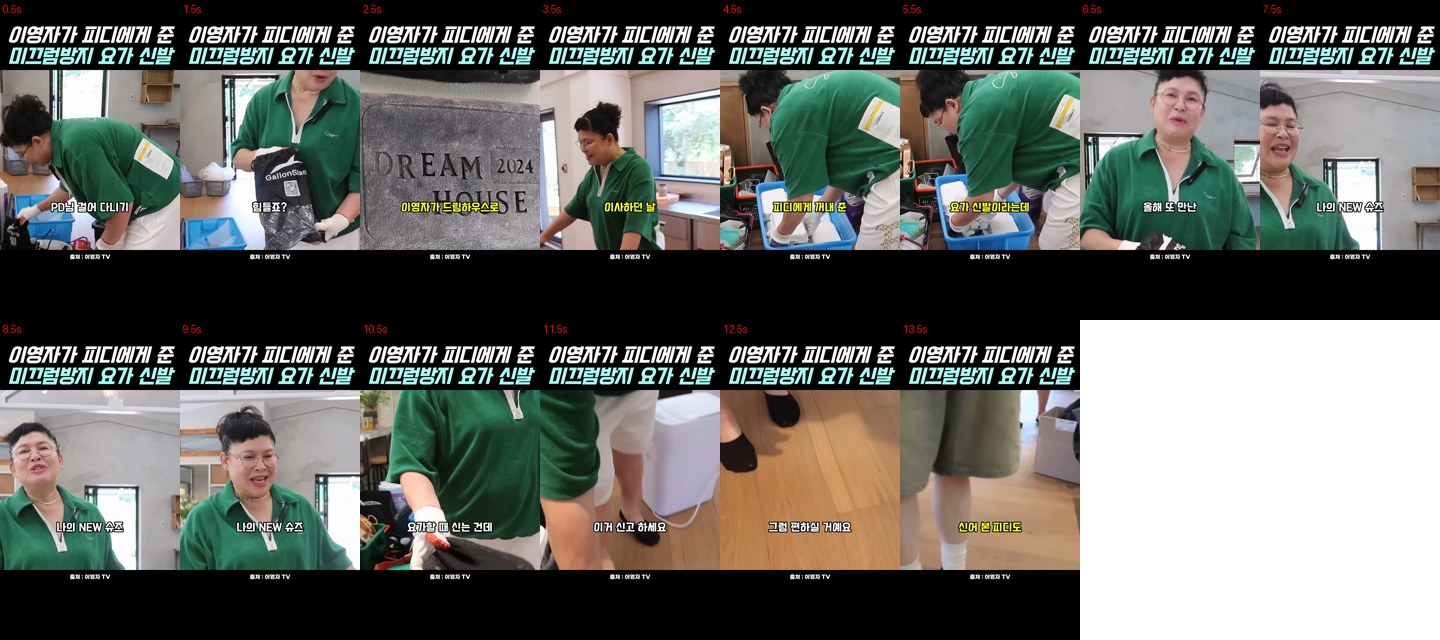
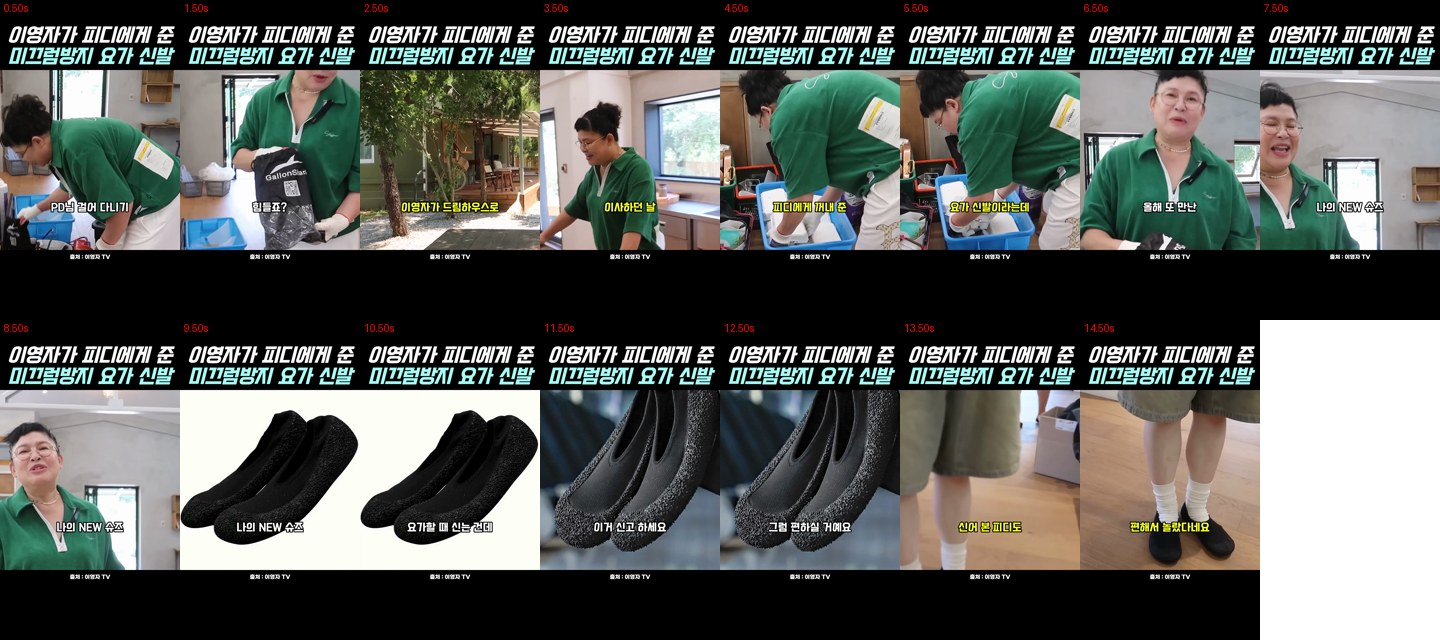
얜샷템 이영자 실내화 수리판 render2: 원음 O2 소리 그대로·화면만 본인 3.40초(50.7%)→같은 제품 상품 사진 B롤 2컷(제품만·손/글자 크롭 밖)·표지 돌 HOUSE(자막 겹침)→드림하우스 마당 26.66~27.72·O2 소리 시작초 프레임 차(11.10 딸깍 제거)·TTS 재호출 0 — 컷 중앙 계획 1.65/compare 1.634(만템 1.40 +16.7%)·check_seams 0·B표 전부 ○·바탕화면 MD5 a6ce8ae4 (관제 097)
Claude-Session: https://claude.ai/code/session_01XyPA8AgSD2J8UjfhcqxXRx

diff --git a/channel/yanshottem/이영자_실내화/_build_json.py b/channel/yanshottem/이영자_실내화/_build_json.py
@@ -104,55 +104,86 @@ S = {
 }
 (D / "대본.json").write_text(json.dumps(S, ensure_ascii=False, indent=1), encoding="utf-8")
 
-# 재료 — 컷 6개(B4 컷 중앙 때문에 N1 을 자막 조각대로 3컷: 표지·주방·짐 정리)(원음 구간은 원본 시각 그대로 → 입 모양 맞음, 같은 테이크는 앞으로만)
+# 재료 — 컷 8개(10-17 수리: B4 새 기준 만템 1.40 ±30% ≤1.82). 원음 O2 는 소리를 안 끊고 화면만 이영자 본인 3.40초(≥50%) → 같은 제품 B롤 2컷(제품만, 손·얼굴 없음).
+#   표지(돌 'DREAM HOUSE')는 글자 y400~710 이 자막 자리(창 y749~823)와 어느 크롭으로도 겹쳐(원본 편집 자막 y≈890 때문에 아래로 못 내림) → 같은 영상 드림하우스 바깥(마당·데크) 26.66~27.72 로 바꿈.
+#   같은 테이크 안 크롭 바꾸기 0(점프 줌 금지) · B16 같은 장면 A-B-A 0 · B13 같은 소스 ±3초 재사용 0.
 bt = {b["block"]: b["t"] for b in blocks}
 n1a, n1b = bt["N1"]
-n1m = round(n1a + NCAPS["N1"][1][1], 3)   # '이사하던 날' 자막 조각 시작에서 컷
 n1s = round(n1a + NCAPS["N1"][2][1], 3)   # '짐 정리하다' 자막 조각 시작에서 컷(TTS 실측)
 o2a, o2b = bt["O2"]
+O2_SELF = 3.40                              # 원음 O2 본인 화면(6.70 의 50.7%) — 119.62~123.02 정면 말·신발 주머니
+o2m = round(o2a + O2_SELF, 3)
+o2n = round((o2m + o2b) / 2, 3)
+G_END = 27.72                               # 마당 샷 크로스페이드 시작(프레임 차 실측: 26.64 까지 들어옴·27.72 부터 나감)
+n1g = round(bt["O1"][1] + (G_END - 26.66), 3)
+fa = lambda t: int(t * 30 + 0.5 + 1e-9)    # narr_video.frame_at 과 같은 반올림 — 원음 O2 를 컷 3개에 이어 깔 때 소리 시작초는 '실제 컷 프레임' 차로(1판 11.10 경계 16.7ms 건너뜀 → 딸깍 0.41)
+o2ss = lambda t: round(119.62 + (fa(t) - fa(o2a)) / 30, 4)
+YJ = (SRC, URL, "이영자 TV 유튜브 2024.06.30", "1920x1080")
+BR = {"i": ("br_i_P-LZ6mhX0.mp4", "https://www.youtube.com/watch?v=i_P-LZ6mhX0", "내맘니맘리뷰 유튜브(쿠팡 상품 사진 모음)", "1920x1080"),
+      "l": ("br_lJbKVjunSr8.mp4", "https://www.youtube.com/watch?v=lJbKVjunSr8", "모두의 리뷰 유튜브(쿠팡 상품 사진 모음)", "1920x1080"),
+      "t": ("br_T8Maxl8-uP0.mp4", "https://www.youtube.com/watch?v=T8Maxl8-uP0", "똑똑한 구매리스트 유튜브(쿠팡 상품 사진 모음)", "1920x1080")}
+# (줄, 시작, 끝, 소스, ss, 크롭, 소리(None|원음 시작초), 화면, 왜)
 cuts = [
-    ("O1", 0.0, bt["O1"][1], 117.82, [700, 0, 820, 820], True,
+    ("O1", 0.0, bt["O1"][1], YJ, 117.82, [700, 0, 820, 820], 117.82,
      "짐 가방 위로 몸을 숙여 검은 신발 주머니를 꺼냄(이영자 본인, 흰 반바지·초록 셔츠)", "원음 'PD님 걸어 다니기 힘들죠?' 117.82~119.42 — 원본 편집 자막(y≈940) 밖. 117.80 원본 컷 뒤"),
-    ("N1", bt["O1"][1], n1m, 50.10, [560, 0, 880, 880], False,
-     "돌 표지 'DREAM 2024 HOUSE'(새 집 벽)", "'이영자가 드림하우스로' — f1 제목의 드림하우스 실물. 원본 샷 49.58~52.04 안. 편집 자막 '결국 이뤄낸 2024 드림하우스'(글자 윗끝 y≈890) 밖 — 크롭 y0~880, 글자 DREAM 2024 HOUSE 가로 540~1460 안"),
-    ("N1", n1m, n1s, 86.44, [450, 0, 820, 820], False,
+    ("N1", bt["O1"][1], n1g, YJ, 26.66, [60, 60, 960, 960], None,
+     "드림하우스 바깥 — 나무 사이 초록 집·나무 데크·자갈 마당(사람 없음)", "'이영자가 드림하우스로' — f1 같은 영상 26.66~27.72(앞뒤 크로스페이드 밖). 원본 파란 테두리(가장자리 ~55px) 밖 크롭. 편집 자막 '3도 4촌 오늘부터 1일'은 26.6 전에 끝남"),
+    ("N1", n1g, n1s, YJ, round(86.44 - (bt["O1"][1] + 1.17 - n1g), 3), [450, 0, 820, 820], None,
      "새 집 주방 조리대 앞에 선 이영자(창밖 나무)", "'이사하던 날' — f1 이사 날 화면. 자막 '[볼수록 그저 감탄]'(y≈950) 밖. 원본 샷 84.50~88.42 안"),
-    ("N1", n1s, o2a, 88.50, [640, 0, 760, 760], False,
+    ("N1", n1s, o2a, YJ, 88.50, [640, 0, 760, 760], None,
      "짐 상자(파란 통) 위로 숙여 짐을 꺼내는 이영자", "'짐 정리하다 피디에게 꺼내 준 요가 신발이라는데' — f2 '드디어 정리 시작!' 자막(왼쪽 아래 y≥760) 밖. 92.04 원본 컷 전"),
-    ("O2", o2a, o2b, 119.62, [450, 0, 820, 820], True,
-     "신발 주머니 들고 정면 보며 말하는 이영자 → 신발 꺼내 듦 → 그 신발 신은 이영자 다리(흰 반바지) → 바닥(한 테이크, 카메라가 따라감)",
-     "원음 '올해 또 만난 나의 NEW 슈즈 … 요가할 때 신는 건데 이거 신고 하세요 / 그럼 편하실 거예요' 119.62~126.32 한 테이크 그대로(자르면 같은 테이크 크롭이 바뀌어 점프 줌 → 크롭 하나). 자막(y≥840) 밖. 126.4~127.4 남의 손이 신발 바닥을 드는 장면은 A13 때문에 안 씀"),
-    ("N2", o2b, dur, 128.42, [600, 85, 820, 820], False,
+    ("O2", o2a, o2m, YJ, 119.62, [450, 0, 820, 820], 119.62,
+     "신발 주머니 들고 정면 보며 말하는 이영자 → 주머니에서 신발을 꺼냄", "원음 '올해 또 만난 나의 NEW 슈즈' 119.62~123.02 본인 화면(O2 의 50.7%). 자막(y≥840) 밖. 같은 테이크는 여기서 끝(되돌아오지 않음)"),
+    ("O2", o2m, o2n, BR["l"], 40.80, [290, 120, 670, 670], o2ss(o2m),
+     "검은 고렌샤크 요가 신발 한 켤레(흰 바탕 상품 사진, 오돌토돌 미끄럼방지 바닥)", "원음 '요가할 때 신는 건데'(소리는 이영자 원음 그대로) — 같은 제품(원본 편집 자막 f4 '고렌샤크 미끄럼방지 요가 신발') 상품 사진. 노란 칸·글자(4위·가격) 밖 흰 사진 칸만 크롭, 사진 정지(프레임 차 ≤0.21)"),
+    ("O2", o2n, o2b, BR["t"], 24.00, [100, 290, 760, 760], o2ss(o2n),
+     "검은 요가 신발 두 짝 — 오돌토돌한 바닥·발끝(상품 사진, 손가락은 크롭 밖)", "원음 '이거 신고 하세요 / 그럼 편하실 거예요' — 같은 제품 상품 사진. 사진 윗부분 손(y≤280)·오른쪽 글자(x≥1060) 밖 크롭, 사진 정지(프레임 차 0)"),
+    ("N2", o2b, dur, YJ, 128.42, [600, 85, 820, 820], None,
      "그 신발을 신고 걷는 사람의 발(카키 반바지·흰 양말 — 이영자와 다른 사람)", "'신어 본 피디도 편해서 놀랐다네요' — f5 '[진짜 편해서 놀랐다고 한다]' 자막(y≥910) 밖. 130.52 원본 컷 전. 끝 컷 ≥1.5초"),
 ]
 shots = []
-for i, (line, a, b, ss, crop, snd, ours, why) in enumerate(cuts):
+for i, (line, a, b, (src, url, sdate, res), ss, crop, aud, ours, why) in enumerate(cuts):
     d = round(b - a, 3)
-    sh = {"i": i, "line": line, "src": SRC, "url": URL, "src_date": "이영자 TV 유튜브 2024.06.30", "ss": ss, "dur": d,
-          "src_span": [ss, round(ss + d, 3)], "t_final": [round(a, 3), round(b, 3)], "kind": "원본재편집", "full": True,
-          "src_crop": crop, "res": "1920x1080", "scale": round(1080 / crop[2], 2), "ours": ours, "why": why}
-    if snd:
+    sh = {"i": i, "line": line, "src": src, "url": url, "src_date": sdate, "ss": ss, "dur": d,
+          "src_span": [ss, round(ss + d, 3)], "t_final": [round(a, 3), round(b, 3)], "kind": ("원본재편집" if src == SRC else "제품B롤"), "full": True,
+          "src_crop": crop, "res": res, "scale": round(1080 / crop[2], 2), "ours": ours, "why": why}
+    if aud is not None:
         sh["audio_src"] = SRC
-        sh["audio_ss"] = ss
+        sh["audio_ss"] = aud
     else:
         sh["mute"] = True
     shots.append(sh)
-LIMIT = {50.10: 52.04, 86.44: 88.42, 88.50: 92.04, 117.82: 119.45, 119.62: 126.40, 128.42: 130.52}   # 128.16~128.35 남의 손 근접(A13) → 128.42부터   # 원본 컷 경계(scene 실측) 넘으면 멈춤
+LIMIT = {(SRC, 26.66): (26.64, 27.72), (SRC, 84.50): (84.50, 88.42), (SRC, 88.50): (88.50, 92.04), (SRC, 117.82): (117.80, 119.45),
+         (SRC, 119.62): (119.62, 126.40), (SRC, 128.42): (128.42, 130.52)}   # 원본 컷 경계(scene 실측) — 128.16~128.35 남의 손 근접(A13) → 128.42부터
 for s in shots:
-    assert s["ss"] + s["dur"] <= LIMIT[s["ss"]] + 1e-6, f"컷 {s['i']} 원본 컷 경계 넘음: {s['ss']}+{s['dur']} > {LIMIT[s['ss']]}"
+    if s["src"] != SRC:
+        continue
+    k = next(k for k in LIMIT if k[1] <= s["ss"] + 1e-6 and s["ss"] < LIMIT[k][1])
+    assert LIMIT[k][0] - 1e-6 <= s["ss"] and s["ss"] + s["dur"] <= LIMIT[k][1] + 1e-6, f"컷 {s['i']} 원본 컷 경계 넘음: {s['ss']}+{s['dur']} vs {LIMIT[k]}"
+# 원음 O2 본인 화면 비율 · B13: 같은 소스는 화면 순서대로 원본 시각도 앞으로만(겹침·되돌아가기 0), 뒤로 가면 3초 넘게 떨어져야
+o2_self = sum(s["dur"] for s in shots if s["line"] == "O2" and s["src"] == SRC) / O[1]["dur"]
+assert o2_self >= 0.5, o2_self
+for x in shots:
+    for y in shots:
+        if x["i"] < y["i"] and x["src"] == y["src"]:
+            assert y["ss"] >= x["src_span"][1] - 1e-6 or x["ss"] >= y["src_span"][1] + 3.0, f"B13 {x['i']}·{y['i']}"
 lens = sorted(s["dur"] for s in shots)
 med = lens[len(lens) // 2] if len(lens) % 2 else round((lens[len(lens) // 2 - 1] + lens[len(lens) // 2]) / 2, 3)
 M = {"_note": "얜샷템 이영자 실내화 편(벤치 안나픽 nt6WIGFmILE) 재료. 원본 = 이영자 TV BHuue4ga-w0(1080p50 AV1 → h264 변환). 창 1080x1080(frame_얜샷템). _build_json.py 가 만든다.",
      "cand_dir": "C:/숏템_칼카피/yanshottem/이영자_실내화/src",
+     "_broll": "제품 B롤 소스는 broll/ 에서 받아 src/br_*.mp4 로 복사(yt-dlp web 1080p)",
      "narration": "일레븐랩스 미나(kr-mina, voice aiUUgjHa4mpHf6UenZuf, eleven_v3, 1.0 통째 1회 합성 → 줄 사이 쉼에서 갈라 atempo N1 1.54·N2 1.45, 실측 8.01·8.33자/초) — 벤치 나레 여성 차분한 설명체 8.01자/초",
      "sources": {"BHuue4ga-w0": {"채널": "이영자 TV", "제목": "드디어 드림하우스로 이사하는 날❗3도4촌 시작합니다🏠 (이효리 오징엇국)", "업로드": "2024-06-30",
-                                 "해상도": "1920x1080 50fps(AV1 webm → libx264 crf18 변환본 yj_BHuue4ga-w0.mp4)", "길이": 488.34, "조회": 2165422}},
+                                 "해상도": "1920x1080 50fps(AV1 webm → libx264 crf18 변환본 yj_BHuue4ga-w0.mp4)", "길이": 488.34, "조회": 2165422},
+                 "lJbKVjunSr8": {"채널": "모두의 리뷰", "제목": "고렌샤크 추천, 역대급 가성비 가성비 TOP5", "해상도": "1920x1080 30fps", "쓴 것": "40.80~ 4위 상품 사진(흰 칸만)"},
+                 "T8Maxl8-uP0": {"채널": "똑똑한 구매리스트", "제목": "고렌샤크 추천 | 이 가격에 득템 오늘만 특가 | 실구매자 추천템 | 쇼핑 랭킹템", "해상도": "1920x1080 24fps", "쓴 것": "24.00~ '전참시 실내화 고렌샤크' 검정 상품 사진(손·글자 밖)"},
+                 "후보(안 씀)": "i_P-LZ6mhX0 내맘니맘리뷰 — '영자 요가 신발 고런샤크 재즈 블랙' 착용 사진(맨발 피부 → 원음 A-B-A 피하려 나레 칸에도 안 넣음)"},
      "shots": shots,
      "source_audio": {"keep": True, "note": "원음 = 이영자 본인 말만(받아쓰기 2회+, 근거.md §2). 원본 구간 LUFS −13.2/−15.0/−18.0(웅얼거림 아님)."},
      "caption_effects": {"now": "나레 = 틀 caption(나레_노랑) · 원음 = caption_events emph 흰색(따옴표 없음)", "planned": "원음_흰글자(GmarketSansBold·y1320) 하위 스타일 — 엔진 요청"},
      "check": {"total": dur, "bench": 16.0, "ratio": round(dur / 16.0, 3), "n_shots": len(shots), "shot_median": med,
                "bench_cut_median": 0.77, "mantem_cut_median": 1.40, "max_scale": max(s["scale"] for s in shots), "orig_share": S["final"]["check"]["orig_share"],
-               "cap_max_chars": max(len(c["text"].replace(" ", "")) for c in caps), "sources_used": ["이영자 TV 유튜브 2024.06.30"]}}
+               "cap_max_chars": max(len(c["text"].replace(" ", "")) for c in caps), "sources_used": sorted({s["src_date"] for s in shots}), "o2_self_share": round(o2_self, 3)}}
 (D / "재료.json").write_text(json.dumps(M, ensure_ascii=False, indent=1), encoding="utf-8")
 
 fr = json.loads((ROOT / "channel/mantem/frame_얜샷템.json").read_text(encoding="utf-8"))

diff --git a/channel/yanshottem/이영자_실내화/make_render.py b/channel/yanshottem/이영자_실내화/make_render.py
@@ -8,7 +8,7 @@
   → 나레 2줄을 대본.json 시각표(원음 2구간 사이)에 끼운 narr_gapped.wav(처음 1.68초 = 원음 훅 자리 무음)
   → 재료.json 6컷을 shots[].cuts 로 묶은 재료_render.json
   → 자막 = captions_plan 전부 caption_events emph(나레 = 틀 자막색 노랑, 원음 = 흰) → narr_video.build(BGM 없음, line_asr=False)
-  → hottem_audio.add_source_bed(컷 단위 소리 시간표, 원음 = 이영자 말만) → BGM 원음 창 덕킹 섞기·LUFS → render/final.mp4
+  → hottem_audio.add_source_bed(컷 단위 소리 시간표, 원음 = 이영자 말만 — 원음 O2 위 B롤 컷도 이영자 원음을 이어 깐다) → BGM 원음 창 덕킹 섞기·LUFS → render2/final.mp4
 ★엔진과 다르게 한 것(보고 대상): ① line_asr=False ② 원음 소리 시간표를 컷 단위 파일로 ③ BGM 을 편 스크립트에서 덕킹해 섞음
   ④ 나레 무음 끼우기를 여기서(gap_tts 는 '맨 앞 무음'을 못 넣는다) ⑤ 원음 자막은 emph 같은 자리·색만 흰색
   ⑥ 렌더용 대본은 나레를 한 문장으로(narr_video line_starts 가 긴 무음 뒤 둘째 줄을 못 찾음 — 안나픽 1편 실측)
@@ -27,8 +27,8 @@ from shopping_shorts import bgm_lib  # noqa: E402
 D = Path(__file__).resolve().parent
 W = Path("C:/숏템_칼카피/yanshottem/이영자_실내화")
 SRC = W / "src"
-R = W / "render"
-MINA = R / "narr_mina.mp3"
+R = W / "render2"                 # 10-17 수리판(제품 B롤 2컷·마당 표지) — 1판은 render/ 그대로 둔다
+MINA = W / "render" / "narr_mina.mp3"   # TTS 재호출 0 — 1판 미나 원음 재사용
 NARR = R / "narr_tempo.wav"
 WAV = R / "narr_gapped.wav"
 VOICE = "yj_voice.wav"

diff --git a/channel/yanshottem/이영자_실내화/B표.md b/channel/yanshottem/이영자_실내화/B표.md
@@ -1,28 +1,30 @@
-# B표 — 얜샷템 이영자 실내화 (벤치 안나픽 nt6WIGFmILE, 2026-10-17)
+# B표 — 얜샷템 이영자 실내화 (벤치 안나픽 nt6WIGFmILE) — 수리판 render2 (2026-10-17)
 
-완성본 `C:/숏템_칼카피/yanshottem/이영자_실내화/render/final.mp4` (14.805초, 1080x1920 30fps) · 1초 시트 `final_sheet_1s.jpg` · 대조 `대조/차이표.md`
-TTS = 일레븐랩스 미나 1회(narr_mina.mp3 9.76초, 나레 전문) → 줄 사이 쉼에서 갈라 atempo N1 1.54 · N2 1.45(같은 1.54면 N2 8.75자/초로 끝이 빨라짐). 재호출 0.
+완성본 `C:/숏템_칼카피/yanshottem/이영자_실내화/render2/final.mp4` (14.805초, 1080x1920 30fps, MD5 a6ce8ae4…) · 1초 시트 `final_sheet_1s.jpg` · 경계 시트 `render2/seams.jpg` · 대조 `대조/차이표.md`
+바탕화면 `C:/Users/CH/Desktop/칼카피영상/얜샷템/칼카피_얜샷템_이영자실내화.mp4` (MD5 같음)
+TTS = 1판 미나 narr_mina.mp3 재사용(재호출 0) → 줄별 atempo N1 1.54 · N2 1.45. 1판(render/final.mp4)은 B4 × 로 보류된 채 그대로 둠.
 
-| # | 항목 | 벤치 | 우리 | 판정 | 근거 |
+수리 내용: ① 원음 O2(6.70초 한 테이크)를 소리는 그대로 두고 화면만 이영자 본인 3.40초(50.7%) → 같은 제품 상품 사진 B롤 2컷(1.65·1.65, 제품만·손 크롭 밖) ② 표지 돌 'DREAM HOUSE' 컷 → 같은 영상 드림하우스 바깥(마당·데크) 26.66~27.72(돌 글자 y400~710 은 어느 크롭으로도 나레 자막 자리와 겹침) ③ 원음 O2 를 컷 3개에 이어 깔 때 소리 시작초를 프레임 차로(초 단위면 11.10 경계에서 16.7ms 건너뛰어 딸깍).
+
+| # | 항목 | 기준 | 우리 | 판정 | 근거 |
 |---|---|---|---|---|---|
 | B1 | 길이 ±15% | 15.67 | 14.805 | ○ | −5.5% (ffprobe) |
-| B2 | LUFS ±1.5 · 최고점 ≤−0.5 | −16.8 | −16.8 · 피크 −3.5 dBFS | ○ | ebur128. 구간: 원음 −15.5/−16.2 · 나레 −18.2/−16.3 (벤치 원음 −14.2/−16.6 · 나레 −18.4/−17.6 — 원음이 나레보다 큰 결 맞춤) |
-| B3 | 말속도 ±5% | 8.01자/초 | 8.11 (N1 35자/4.37초 8.01 · N2 14자/1.67초 8.38) | ○ | 무음 실측(−40dB) |
-| B4 | 컷 중앙 ±30%(느린 쪽 +45%) | 0.77 | 1.85(계획 6컷) · compare 잰 값 2.53 | **×** | 원음 O2 6.7초 한 테이크(크롭 바꾸면 점프줌)·끝 컷 ≥1.5초 때문에 1.12 이하 불가. N1 을 자막 조각대로 3컷(표지·주방·짐)으로 나눠 2.10→1.85. 만템 채널 중앙 1.40 |
+| B2 | LUFS ±1.5 · 최고점 ≤−0.5 | −16.8 | −16.8 · 피크 −3.5 dBFS | ○ | ebur128. 원음 −15.5/−16.2 · 나레 −18.2/−16.3 (1판과 같음) |
+| B3 | 말속도 ±5% | 8.01자/초 | 8.01 / 8.38 | ○ | TTS 1판 그대로 |
+| B4 | 컷 중앙 — 새 기준 만템 1.40 ±30%(≤1.82) | 1.40 | 계획 1.65 · compare 1.634 (샷 8 = 계획 8) | ○ | +16.7%. 컷 1.60·1.06·0.88·2.51·3.40·1.65·1.65·2.095. 끝 컷 2.095 ≥1.5. (안나픽 벤치 0.77 대비는 여전히 느림 — 지휘 결정대로 만템 기준) |
 | B5 | 꾸밈이 얼굴 가림 | — | 꾸밈 없음 | ○ | |
-| B6 | 짤 되풀이 | — | 짤 0 | ○ | |
-| B7 | 자막 잔존·재등장 | — | 없음 | ○ | 1초 시트·경계 프레임(1.55/1.65/2.75/2.8/3.5/3.6/6.0/6.1/12.7/12.8) |
-| B8 | 원음 구간 말소리 | — | 원음 = 이영자 본인 말(설계) | ○ | B17 참조 |
-| B9 | 첫·끝 컷 Y≥60 | — | 첫 119.5 · 끝 125.1 | ○ | signalstats(창 안) |
-| B10 | 주피사체 가운데 | — | 끝 컷 다리 가운데 | ○ | 14.75초 프레임 |
-| B11 | 바탕화면 MD5 | — | 미복사 | — | B4 × 로 보류 |
-| B12 | compare 표 | — | ① 24 중 10 안 | 참고 | 밖 = 틀 차이(만템 틀 의도: 제목 글자·자막 글꼴/크기·등장효과) + 컷 길이(B4). 길이·창·배경·자막 자리 안 |
-| B13 | 같은 장면 중복 | — | 겹침 0 | ○ | 소스 구간 50.10–51.27 · 86.44–87.21 · 88.50–91.01 · 117.82–119.42 · 119.62–126.32 · 128.42–130.52 — O1→O2·O2→N2 는 원본 시각 앞으로만 이어짐(재사용 아님) |
+| B6 | 짤 되풀이 · 같은 사진 ≤2컷 | — | 짤 0 · 상품 사진 2장 각 1컷 | ○ | lJb 40.80 · T8M 24.00 |
+| B7 | 자막 잔존·재등장 | — | 없음 | ○ | 경계 시트 1.55/1.65/2.62/2.70/3.50/3.58/6.02/6.08/9.42/9.48/11.07/11.13/12.72/12.78. 원음·나레 자막이 다음 컷에 ≤0.11초 걸침(1판과 같은 결) |
+| B8 | 원음 구간 말소리 = 이영자 본인만 | — | ○ | ○ | 원음 소리 1판과 같음 — 1판 대비 차: O1·나레 −180dB(동일), O2 컷 4·5 −180dB, 컷 6 0.33ms 어긋남(정렬 뒤 −24dB) |
+| B9 | 첫·끝 컷 Y≥60 | — | 첫 0.1초 112.5 · 끝 14.7초 122.5 | ○ | 창 안 회색 평균(64px 축소) |
+| B10 | 주피사체 가운데 | — | 끝 컷 다리 가운데 | ○ | 14.5초 프레임 |
+| B11 | 바탕화면 MD5 | — | a6ce8ae4b4dfbd0d05a611ac1cad2ae4 = 정본 | ○ | md5sum |
+| B12 | compare 표 | — | ① 24 중 11 안 (1판 10) | 참고 | 밖 = 틀 차이(만템 틀 의도: 제목·자막 글꼴/크기) + 컷 길이(안나픽 0.77 기준 — B4 는 만템 기준으로 판정) |
+| B13 | 같은 장면 중복 | — | 0 | ○ | 소스 구간 117.82–119.42 · 26.66–27.72 · 86.33–87.21 · 88.50–91.01 · 119.62–123.02 · lJb 40.80–42.45 · T8M 24.00–25.65 · 128.42–130.52 — 같은 소스는 원본 시각이 앞으로만(_build_json.py assert) |
 | B14 | 효과음 과다 | — | 0발 | ○ | |
-| B15 | 줄별 말속도 고름 | — | 8.01 / 8.38 | ○ | 줄별 atempo(±6%) |
-| B16 | 되감김 0 · A-B-A | — | 되감김 0 · 점프줌 0 | ○ | check_seams.py --frame frame_이영자.json 종료코드 0 (소리급변 참고 5 = 원음↔나레 경계) |
-| B17 | 원음 단독 받아쓰기 = 본인 말 | — | O1 'PD님, 걸어 다니기 힘들죠?' · O2 '오랜만이다/나의 뉴 슈즈/요가 할 때 쓰는 건데 이거 신고 하세요/그럼 편하실 거예요' | ○ | gemini-3-flash-preview. 원본 같은 구간 받아쓰기도 '오랜만이다'(원본 편집 자막 '올해 또 만난') — 완성본 = 원본 |
-| A13 | 원음 구간 남의 신체 근접 | — | 없음 | ○ | O2 끝 다리·흰 장갑 = 이영자 본인(흰 반바지·같은 장갑), 126.4~ 남의 손 장면 안 씀 |
+| B15 | 줄별 말속도 고름 | — | 8.01 / 8.38 | ○ | |
+| B16 | 되감김 0 · A-B-A · 점프줌 | — | 되감김 0 · 점프줌 0 · 같은 테이크 되돌아오기 0 | ○ | check_seams.py --frame channel/mantem/frame_얜샷템.json 종료코드 0. 인물 순서 이영자(가방)→집 바깥→이영자(주방)→이영자(짐)→이영자(O2)→사진→사진→PD 발 — 이영자 사이 집 바깥은 다른 장면(117초↔86초, 1판 돌 표지 자리) |
+| B17 | 원음이 알아들림 | — | O1 'PD님, 걸어 다니기 힘들죠?' · O2 '오랜만이다/나의 뉴 슈즈/요가 할 때 쓰는 건데 이거 신고 하세요/그럼 편하실 거예요' | ○ | 1판 받아쓰기(gemini-3-flash) — 원음 소리 1판과 동일(B8 근거). O2 경계 딸깍 최대 샘플 차 9.45 0.285 · 11.10 0.106 (1판 0.285 · 0.104) |
+| A13 | 원음 구간 남의 신체 근접 | — | 0 | ○ | O2 B롤 2컷 = 상품 사진에서 제품만(T8M 위쪽 손 y≤280 은 크롭 y290 부터라 밖, 시트 11.5초 확인) · 사진 속 글자(4위·가격·상품명)도 크롭 밖 |
 
-나레 받아쓰기(3-flash): N1 '이영자가 드림하우스로 이사하던 날 / 짐 정리하다 PD에게 꺼내준 / 요가 신발이라는데' 일치 · N2 '시나본 PD도 편해서 놀랐다네요'('신어 본' 소리 [시너본] — 미나 원음부터 같음, TTS 재호출 안 함).
-남은 흠: B4 · 표지 컷(1.6~2.77초)에서 나레 자막이 'HOUSE' 글자 위에 겹침(표지 크롭은 원본 자막 y≈890 때문에 더 못 내림).
+남은 흠: B롤 2컷은 실착 동영상이 아니라 상품 사진(정지) — 검색 5회에서 같은 제품 동영상 B롤 못 찾음. 원음 자막 = 틀 caption 자리·흰색(원음_흰글자 하위 스타일은 엔진 요청, 1판과 같음).

diff --git a/channel/yanshottem/이영자_실내화/대조/차이표.md b/channel/yanshottem/이영자_실내화/대조/차이표.md
@@ -1,11 +1,11 @@
 # 칼카피 대조 차이표
 
 - 원본: `C:/숏템_칼카피/yanshottem/이영자_실내화/bench/nt6WIGFmILE.mp4` (15.6초)
-- 우리: `C:/숏템_칼카피/yanshottem/이영자_실내화/render/final.mp4` (14.8초)
+- 우리: `C:/숏템_칼카피/yanshottem/이영자_실내화/render2/final.mp4` (14.8초)
 - 자: bench_one.measure(layout_mode=`single`) — 두 영상에 같은 함수
 - 규칙 자료(뜯기.json): 원본 `None` · 우리 `None`
-- **판정(① 픽셀 수준만): 미달** (기준 24개 중 안 10개)
-- ① 밖: 자막 띠 [y0,y1), 제목 블록 아래 끝~창 위 끝(px), 창 위 띠1 [208,295) 글자 높이(px), 창 위 띠1 [208,295) 획 두께(px), 창 위 띠1 [208,295) 잉크 비율, 창 위 띠2 [311,397) 글자 높이(px), 창 위 띠2 [311,397) 획 두께(px), 창 위 띠2 [311,397) 잉크 비율, 줄 폭 중앙(px), 첫 줄 높이 중앙(px), 획 두께 중앙(px), 등장효과(최빈), 컷 길이 중앙(초), 컷 길이 p90(초)
+- **판정(① 픽셀 수준만): 미달** (기준 24개 중 안 11개)
+- ① 밖: 자막 띠 [y0,y1), 제목 블록 아래 끝~창 위 끝(px), 창 위 띠1 [208,295) 글자 높이(px), 창 위 띠1 [208,295) 획 두께(px), 창 위 띠1 [208,295) 잉크 비율, 창 위 띠2 [311,397) 글자 높이(px), 창 위 띠2 [311,397) 획 두께(px), 창 위 띠2 [311,397) 잉크 비율, 줄 폭 중앙(px), 첫 줄 높이 중앙(px), 획 두께 중앙(px), 컷 길이 중앙(초), 컷 길이 p90(초)
 - ① 못 잼: 없음
 - ② 규칙 수준(판정 제외): 안 1개 · 밖 없음 · 미측정 10개
 
@@ -24,25 +24,25 @@
 | 틀 | 제목 블록 아래 끝~창 위 끝(px) | 25 | 34 | 9 | 제목 블록 아래 끝~창 위 끝 간격 차 ≤ 8px | **밖** | `layout.window − bands.ink_bottom` |
 | 틀 | 창 위 띠1 [208,295) 글자 높이(px) | 86 | 103 | 17.0 (19.8%) | 띠 글자 높이 차 ≤ 6% | **밖** | `bands.band_style(captions.glyph_style)` |
 | 틀 | 창 위 띠1 [208,295) 획 두께(px) | 14 | 17 | 3 | 띠 획 두께 차 ≤ 1px | **밖** | `bands.band_style(captions.glyph_style)` |
-| 틀 | 창 위 띠1 [208,295) 잉크 비율 | 0.06165 | 0.08974 | 0.028 (45.6%) | 띠 잉크 비율 차 ≤ 20% | **밖** | `bands.band_style(layout.ink_mask)` |
+| 틀 | 창 위 띠1 [208,295) 잉크 비율 | 0.06165 | 0.08969 | 0.028 (45.5%) | 띠 잉크 비율 차 ≤ 20% | **밖** | `bands.band_style(layout.ink_mask)` |
 | 틀 | 창 위 띠2 [311,397) 글자 높이(px) | 85 | 103 | 18.0 (21.2%) | 띠 글자 높이 차 ≤ 6% | **밖** | `bands.band_style(captions.glyph_style)` |
 | 틀 | 창 위 띠2 [311,397) 획 두께(px) | 13 | 16 | 3 | 띠 획 두께 차 ≤ 1px | **밖** | `bands.band_style(captions.glyph_style)` |
-| 틀 | 창 위 띠2 [311,397) 잉크 비율 | 0.05731 | 0.07903 | 0.022 (37.9%) | 띠 잉크 비율 차 ≤ 20% | **밖** | `bands.band_style(layout.ink_mask)` |
+| 틀 | 창 위 띠2 [311,397) 잉크 비율 | 0.05731 | 0.07911 | 0.022 (38.0%) | 띠 잉크 비율 차 ≤ 20% | **밖** | `bands.band_style(layout.ink_mask)` |
 | 자막 | 첫 줄 y 중앙(px) | 1173 | 1215 | 42.0px (2.2% of H1920) | 첫 줄 y 중앙 차 ≤ 화면 높이의 6% | 안 | `captions.caption_lines` |
 | 자막 | 줄 수 중앙 | 1 | 1 | 같음 | 줄 수(중앙) 같음 | 안 | `captions.caption_lines` |
-| 자막 | 줄 폭 중앙(px) | 663 | 436 | -227.0 (34.2%) | 줄 폭 중앙 차 ≤ 6% | **밖** | `captions.caption_lines` |
+| 자막 | 줄 폭 중앙(px) | 663 | 442 | -221.0 (33.3%) | 줄 폭 중앙 차 ≤ 6% | **밖** | `captions.caption_lines` |
 | 자막 | 첫 줄 높이 중앙(px) | 72 | 55 | -17.0 (23.6%) | 첫 줄 높이 중앙 차 ≤ 6% | **밖** | `captions.glyph_style` |
 | 자막 | 획 두께 중앙(px) | 10 | 8 | 2 | 획 두께 중앙 차 ≤ 1px | **밖** | `captions.glyph_style` |
 | 자막 | 외곽선 있음(다수) | 있음 | 있음 | 같음 | 외곽선 유무(다수) 같음 — bench는 굵기 px를 안 재고 유무만 잰다 | 안 | `captions.glyph_style` |
 | 자막 | 그림자 있음(다수) | 없음 | 없음 | 같음 | 참고(설계에 기준 수치 없음) | 참고 | `captions.glyph_style` |
-| 자막 | 등장효과(최빈) | 확대/축소 | 없음 | 다름 | 등장효과 종류(최빈) 같음 | **밖** | `captions.caption_anim` |
+| 자막 | 등장효과(최빈) | 확대/축소 | 확대/축소 | 같음 | 등장효과 종류(최빈) 같음 | 안 | `captions.caption_anim` |
 | 자막 | 자막당 초 중앙 | 1 | 0.95 | -0.05 (5.0%) | 자막당 초 중앙 차 ≤ 15% | 안 | `captions.caption_track(흔들림 구간 제외)` |
 | 자막 | 자막 개수 | 15 | 14 | -1 | 참고(설계에 기준 수치 없음) | 참고 | `captions.caption_track(흔들림 구간 제외)` |
-| 컷 | 컷 길이 중앙(초) | 0.766 | 2.533 | 1.767 (230.7%) | 컷 길이 중앙 차 ≤ 15% | **밖** | `cuts.shot_lengths` |
-| 컷 | 컷 길이 p90(초) | 2.117 | 5.12 | 3.003 (141.9%) | 컷 길이 p90 차 ≤ 15% | **밖** | `cuts.shot_lengths` |
-| 컷 | 첫 컷 시각(초) | 1.6 | 2.8 | 1.2 | 참고(설계에 기준 수치 없음) | 참고 | `cuts.shot_lengths` |
-| 컷 | 자막=컷 일치율(%) | 63.6 | 100 | 36.4 | 참고(설계에 기준 수치 없음) | 참고 | `cuts.cut_eq_sub` |
-| 컷 | 샷 수 | 12 | 5 | -7 | 참고(설계에 기준 수치 없음) | 참고 | `cuts.scene_detect+merge_close+cut_verify` |
+| 컷 | 컷 길이 중앙(초) | 0.766 | 1.634 | 0.868 (113.3%) | 컷 길이 중앙 차 ≤ 15% | **밖** | `cuts.shot_lengths` |
+| 컷 | 컷 길이 p90(초) | 2.117 | 2.793 | 0.676 (31.9%) | 컷 길이 p90 차 ≤ 15% | **밖** | `cuts.shot_lengths` |
+| 컷 | 첫 컷 시각(초) | 1.6 | 1.633 | 0.033 | 참고(설계에 기준 수치 없음) | 참고 | `cuts.shot_lengths` |
+| 컷 | 자막=컷 일치율(%) | 63.6 | 71.4 | 7.8 | 참고(설계에 기준 수치 없음) | 참고 | `cuts.cut_eq_sub` |
+| 컷 | 샷 수 | 12 | 8 | -4 | 참고(설계에 기준 수치 없음) | 참고 | `cuts.scene_detect+merge_close+cut_verify` |
 | 소리 | True Peak(dBTP) | -0.1 | -3.5 | -3.4 | 참고(설계에 기준 수치 없음) | 참고 | `audio.ebur128` |
 | 길이 | 길이(초, 프레임÷fps) | 15.6 | 14.8 | -0.8 (5.1%) | 길이 차 ≤ 15% | 안 | `probe.info` |
 

diff --git a/channel/yanshottem/이영자_실내화/근거.md b/channel/yanshottem/이영자_실내화/근거.md
@@ -57,6 +57,23 @@
 - 점프 줌(B16): 같은 테이크 119.62~126.32 는 크롭 하나로 자르지 않음. O1(117.82~)과 O2(119.62~)는 같은 테이크지만 사이에 N1 다른 장면 2컷이 끼고 원본 시각은 앞으로만.
 - 화면 속 글자: 신발 주머니 인쇄 'GallonStar'·셔츠 뒤 종이 태그 = 원본 실물(덧씌운 글자 아님). 4모서리 덧씌운 글자 0.
 
+### 4-1. 10-17 수리판(render2) 재료 — 컷 8개, 컷 중앙 1.65(계획)·1.634(compare)
+
+| 블록 | 컷 | 소스·구간 | 크롭 | 화면 | 소리 |
+|---|---|---|---|---|---|
+| O1 | 0 | 이영자 TV 117.82~119.42 | [700,0,820,820] 1.32 | 신발 주머니 꺼내는 이영자 | 원음 117.82 |
+| N1 | 1 | 이영자 TV 26.66~27.72 | [60,60,960,960] 1.13 | 드림하우스 바깥(초록 집·데크·마당, 사람 없음) — 돌 표지 'DREAM HOUSE' 는 글자(y400~710)가 어느 크롭으로도 나레 자막 자리와 겹쳐 교체 | 무음 |
+| N1 | 2 | 이영자 TV 86.33~87.21 | [450,0,820,820] 1.32 | 주방 앞 이영자 | 무음 |
+| N1 | 3 | 이영자 TV 88.50~91.01 | [640,0,760,760] 1.42 | 짐 꺼내는 이영자 | 무음 |
+| O2 | 4 | 이영자 TV 119.62~123.02 | [450,0,820,820] 1.32 | 정면 보며 말하는 이영자(O2 의 50.7%) | 원음 119.62 |
+| O2 | 5 | 모두의 리뷰 lJbKVjunSr8 40.80~ (1080p) | [290,120,670,670] 1.61 | 검은 고렌샤크 요가 신발 한 켤레 상품 사진(흰 칸만, 4위·가격·노란 칸 밖) | 원음 이어서 123.02 |
+| O2 | 6 | 똑똑한 구매리스트 T8Maxl8-uP0 24.00~ (1080p) | [100,290,760,760] 1.42 | 검은 요가 신발 바닥·발끝 상품 사진(위쪽 손·오른쪽 글자 밖) | 원음 이어서 124.6533 |
+| N2 | 7 | 이영자 TV 128.42~130.52 | [600,85,820,820] 1.32 | 그 신발 신고 걷는 발 | 무음 |
+
+- B롤 = 같은 제품: 원본 편집 자막 f4 '(고렌샤크 미끄럼방지 요가 신발)' ↔ 상품명 '미끄럼방지 요가 신발 고렌shark'(lJb 4위)·'전참시 실내화 고렌샤크 헬스 신발 요가'(T8M). 색(검정)·오돌토돌 바닥이 원본 실물(126.5초 바닥 화면)과 같음. 사진은 정지(프레임 차 ≤0.21).
+- 원음 O2 소리는 안 끊음 — 컷 5·6 소리 시작초 = 119.62 + (컷 시작 프레임 − O2 시작 프레임)/30 (1차에 초 단위로 넣어 11.10 경계 16.7ms 건너뜀·딸깍 0.41 → 프레임 차로 고쳐 0.106 = 1판과 같음).
+- 검색 5회(고렌샤크 요가신발·고렌샤크·이영자 요가신발·갤런샤크 요가신발 리뷰·이영자 실내화 고렌샤크 shorts — 뒤 2개 결과 0). 영상 B롤(실착 동영상)은 못 찾음 → 상품 사진 모음 영상의 사진 칸.
+
 ## 5. 남은 확인
 
 - **TTS 못 함**: 일레븐 키 거절(GET /v1/user/subscription 400 `api_key_id_used_as_api_key` — "API key ID used as API key", 2026-10-17 실측). 나레 길이는 8.3자/초 추정.
